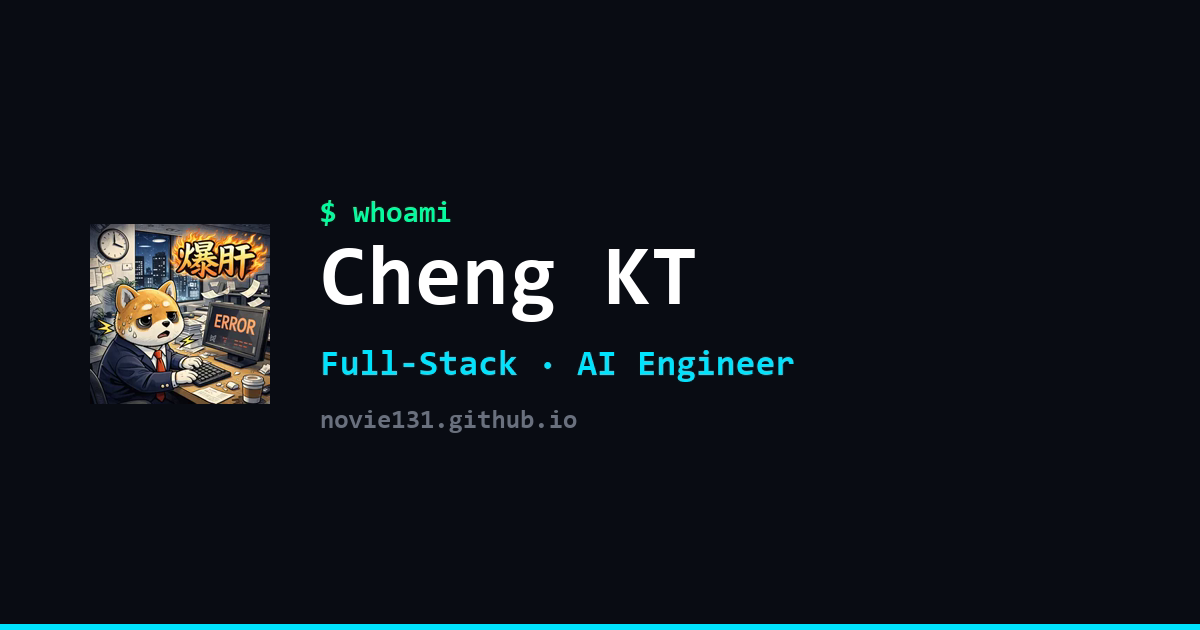
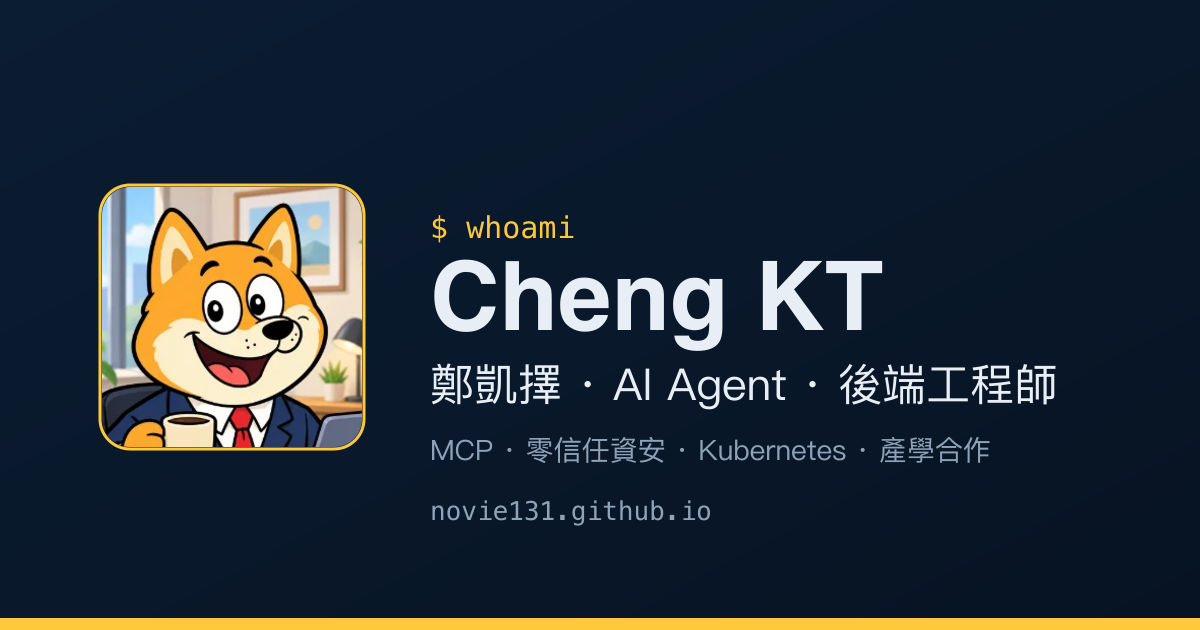
feat: 作品集改用履歷卡片風格；T-Cross 附證明圖；重製 og.png；SmartRouteAI 更名 Chutora 並新增 SortOCR

diff --git a/src/pages/Portfolio.jsx b/src/pages/Portfolio.jsx
@@ -1,6 +1,8 @@
 import { useSearchParams } from 'react-router-dom'
 import { useLang } from '../context/LangContext'
 import projects from '../content/projects.json'
+import Zoomable from '../components/Zoomable'
+import '../styles/Resume.css'
 import '../styles/Portfolio.css'
 
 const { items, filters } = projects
@@ -24,82 +26,62 @@ export default function Portfolio() {
         <p className="page-desc">{t('port.desc')}</p>
       </header>
 
-      <div className="filter-bar">
-        {filters.map(key => (
-          <button
-            key={key}
-            className={`filter-btn${active === key ? ' active' : ''}`}
-            onClick={() => setActive(key)}
-          >
-            {key === 'All' ? t('port.filter.all') : key}
-          </button>
-        ))}
-        <span className="filter-count tc-dim">{visible.length} {t('port.count')}</span>
-      </div>
+      <section className="resume-section">
+        <h2 className="section-title">
+          {t('port.section')}
+          <span className="resume-count">{visible.length} {t('port.count')}</span>
+        </h2>
 
-      <div className="project-grid">
-        {visible.map(project => (
-          <div
-            key={project.id}
-            className={`project-card${project.featured ? ' featured' : ''}`}
-          >
-            {project.image && (
-              <img
-                className="card-image"
-                src={project.image}
-                alt={project.title}
-                width="800"
-                height="450"
-                loading="lazy"
-                decoding="async"
-              />
-            )}
+        <nav className="resume-toc filter-bar" aria-label={t('port.title')}>
+          {filters.map(key => (
+            <button
+              key={key}
+              className={`toc-chip${active === key ? ' active' : ''}`}
+              aria-pressed={active === key}
+              onClick={() => setActive(key)}
+            >
+              {key === 'All' ? t('port.filter.all') : key}
+            </button>
+          ))}
+        </nav>
 
-            <div className="card-content">
-              <p className="card-category">{project.category}</p>
-              <h3 className="card-title">{project.title}</h3>
-              <p className="card-desc">{project.description[lang]}</p>
+        <div className="exp-list project-list">
+          {visible.map(project => (
+            <article
+              key={project.id}
+              className={`exp-card project-card${project.featured ? ' featured' : ''}`}
+            >
+              <Zoomable src={project.image} alt={project.title} closeLabel={t('zoom.close')} />
+              <p className="exp-org">{project.category}</p>
+              <h3 className="exp-title">{project.title}</h3>
+              <p className="exp-summary">{project.description[lang]}</p>
 
-              <ul className="project-features">
-                {project.features[lang].map((f, i) => (
-                  <li key={i}>{f}</li>
-                ))}
+              <ul className="exp-highlights">
+                {project.features[lang].map((f, i) => <li key={i}>{f}</li>)}
               </ul>
 
-              <div className="tags project-tech">
-                {project.tech.map(tech => (
-                  <span key={tech} className="tag">{tech}</span>
-                ))}
+              <div className="tags rs-tags">
+                {project.tech.map(tech => <span key={tech} className="tag">{tech}</span>)}
               </div>
 
               {(project.repoLink || project.demoLink) && (
-              <div className="card-footer">
-                {project.repoLink && (
-                  <a
-                    href={project.repoLink}
-                    className="project-link secondary"
-                    target="_blank"
-                    rel="noreferrer"
-                  >
-                    {t('port.github')}
-                  </a>
-                )}
-                {project.demoLink && (
-                  <a
-                    href={project.demoLink}
-                    className="project-link primary"
-                    target="_blank"
-                    rel="noreferrer"
-                  >
-                    {t('port.demo')}
-                  </a>
-                )}
-              </div>
+                <div className="project-links">
+                  {project.repoLink && (
+                    <a href={project.repoLink} className="project-link secondary" target="_blank" rel="noreferrer">
+                      {t('port.github')}
+                    </a>
+                  )}
+                  {project.demoLink && (
+                    <a href={project.demoLink} className="project-link primary" target="_blank" rel="noreferrer">
+                      {t('port.demo')}
+                    </a>
+                  )}
+                </div>
               )}
-            </div>
-          </div>
-        ))}
-      </div>
+            </article>
+          ))}
+        </div>
+      </section>
     </div>
   )
 }

diff --git a/src/styles/Portfolio.css b/src/styles/Portfolio.css
@@ -1,162 +1,30 @@
-/* ── Filter Bar ──────────────────────────────────── */
-.filter-bar {
-  display: flex;
-  align-items: center;
-  gap: 0.4rem;
-  flex-wrap: wrap;
-  margin-bottom: 1.75rem;
-}
+/* 作品集沿用履歷頁的卡片（exp-card）與導覽晶片（toc-chip），這裡只補作品集特有的部分 */
 
-.filter-btn {
-  font-family: var(--font-mono);
-  font-size: 0.75rem;
-  font-weight: 600;
-  padding: 0.35rem 0.85rem;
-  border-radius: 9999px;
-  border: 1px solid var(--border);
+.filter-bar { margin: 0 0 1.25rem; }
+
+button.toc-chip {
+  font-family: inherit;
   background: transparent;
-  color: var(--muted);
   cursor: pointer;
-  transition: color 0.2s, border-color 0.2s, background 0.2s;
 }
 
-.filter-btn:hover {
+.toc-chip.active {
   color: var(--text);
-  border-color: var(--border-hi);
-}
-
-.filter-btn.active {
   background: var(--surface-2);
   border-color: var(--border-hi);
-  color: var(--text);
 }
 
-.filter-count {
-  font-family: var(--font-mono);
-  font-size: 0.72rem;
-  margin-left: auto;
-}
-
-/* ── Grid ────────────────────────────────────────── */
-/* 手機單欄；≥860px 兩欄等高，featured 那張橫跨整列 */
-.project-grid {
-  display: grid;
-  grid-template-columns: 1fr;
-  gap: 1rem;
-}
-
-@media (min-width: 860px) {
-  .project-grid {
-    grid-template-columns: repeat(2, 1fr);
-    gap: 1.25rem;
-  }
-
+/* 精選那張橫跨整列（≥1100px 才有兩欄） */
+@media (min-width: 1100px) {
   .project-card.featured { grid-column: 1 / -1; }
-
-  .project-card.featured .card-content {
-    display: grid;
-    grid-template-columns: 1fr 1fr;
-    grid-template-rows: auto auto 1fr auto auto;
-    column-gap: 2.5rem;
-  }
-
-  .project-card.featured .card-category,
-  .project-card.featured .card-title,
-  .project-card.featured .card-footer { grid-column: 1 / -1; }
-
-  .project-card.featured .project-features { grid-column: 2; grid-row: 3 / 5; }
-  .project-card.featured .card-desc        { grid-column: 1; grid-row: 3; }
-  .project-card.featured .project-tech     { grid-column: 1; grid-row: 4; }
 }
 
-/* ── Card ────────────────────────────────────────── */
-.project-card {
-  background: var(--surface);
-  border: 1px solid var(--border);
-  border-radius: var(--radius);
-  display: flex;
-  flex-direction: column;
-  overflow: hidden;
-  transition: border-color 0.2s;
-}
-
-.project-card:hover { border-color: var(--border-hi); }
-
-.card-content {
-  padding: 1.35rem 1.25rem 1.25rem;
-  display: flex;
-  flex-direction: column;
-  flex: 1;
-}
-
-@media (min-width: 600px) {
-  .card-content { padding: 1.6rem 1.6rem 1.4rem; }
-}
-
-.card-category {
-  font-family: var(--font-mono);
-  font-size: 0.7rem;
-  font-weight: 600;
-  color: var(--dim);
-  letter-spacing: 0.08em;
-  text-transform: uppercase;
-  margin: 0 0 0.5rem;
-}
-
-.card-title {
-  font-family: var(--font-display);
-  font-size: 1.2rem;
-  font-weight: 700;
-  color: var(--text);
-  margin: 0 0 0.75rem;
-  letter-spacing: -0.01em;
-}
-
-.card-desc {
-  color: var(--text-2);
-  font-size: 0.92rem;
-  line-height: 1.7;
-  margin: 0 0 1rem;
-}
-
-.project-features {
-  list-style: none;
-  padding: 0;
-  margin: 0 0 1.25rem;
-  display: flex;
-  flex-direction: column;
-  gap: 0.4rem;
-  flex-grow: 1;
-}
-
-.project-features li {
-  font-size: 0.86rem;
-  color: var(--muted);
-  padding-left: 1rem;
-  position: relative;
-  line-height: 1.6;
-}
-
-.project-features li::before {
-  content: '';
-  position: absolute;
-  left: 0;
-  top: 0.68em;
-  width: 4px;
-  height: 4px;
-  border-radius: 50%;
-  background: var(--dim);
-}
-
-.project-tech { margin-bottom: 1.25rem; }
-
-/* Footer */
-.card-footer {
-  margin-top: auto;
-  padding-top: 1rem;
-  border-top: 1px solid var(--border);
+.project-links {
   display: flex;
   gap: 1.25rem;
+  margin-top: 1rem;
+  padding-top: 0.9rem;
+  border-top: 1px solid var(--border);
 }
 
 .project-link {
@@ -169,16 +37,5 @@
 
 .project-link.primary { color: var(--primary); }
 .project-link.primary:hover { color: #ffd966; }
-
 .project-link.secondary { color: var(--text-2); }
 .project-link.secondary:hover { color: var(--text); }
-
-/* 專案封面圖（image 欄位有值時才渲染） */
-.card-image {
-  display: block;
-  width: 100%;
-  height: auto;
-  aspect-ratio: 16 / 9;
-  object-fit: cover;
-  border-bottom: 1px solid var(--border);
-}

diff --git a/src/styles/Resume.css b/src/styles/Resume.css
@@ -511,3 +511,13 @@ a.write-card:hover .write-title { color: var(--primary); }
   .write-card { padding: 1.15rem 1.1rem; }
   .course-row { align-items: flex-start; }
 }
+
+/* 社群列附縮圖：第三欄放小縮圖；手機時縮圖靠右、與內文同一列 */
+.comm-row:has(.zoom-mini) { grid-template-columns: minmax(0, 1fr) auto; }
+.comm-row:has(.zoom-mini) .comm-period { grid-column: 1 / -1; }
+.comm-row:has(.zoom-mini) .zoom-mini { align-self: start; margin-top: 0.15rem; }
+
+@media (min-width: 720px) {
+  .comm-row:has(.zoom-mini) { grid-template-columns: 10.5rem minmax(0, 1fr) auto; }
+  .comm-row:has(.zoom-mini) .comm-period { grid-column: auto; }
+}

diff --git a/src/i18n/translations.js b/src/i18n/translations.js
@@ -40,6 +40,7 @@ const translations = {
 
     // Portfolio
     'port.title':          '精選作品',
+    'port.section':        '專案',
     'port.filter.all':     '全部',
     'port.count':          '個作品',
     'port.github':         'GitHub ↗',
@@ -161,6 +162,7 @@ const translations = {
 
     // Portfolio
     'port.title':          'Selected Projects',
+    'port.section':        'Projects',
     'port.filter.all':     'All',
     'port.count':          'projects',
     'port.github':         'GitHub ↗',

diff --git a/src/styles/App.css b/src/styles/App.css
@@ -315,7 +315,7 @@ body::before {
    不支援的瀏覽器直接略過、內容照常顯示，不會有「JS 沒跑就空白」的風險 */
 @media (prefers-reduced-motion: no-preference) {
   @supports (animation-timeline: view()) {
-    .exp-card, .pub-card, .cert-card, .comp-card, .write-card,
+    .exp-card, .pub-card, .cert-card, .comp-card, .write-card, .project-card,
     .edu-row, .comm-row, .course-row, .event-row {
       animation: revealUp linear both;
       animation-timeline: view();

diff --git a/src/pages/Resume.jsx b/src/pages/Resume.jsx
@@ -181,6 +181,7 @@ export default function Resume() {
                 <p className="comm-desc">{pick(item.desc, lang)}</p>
                 <Tags list={item.tech} />
               </div>
+              <Zoomable src={item.image} alt={pick(item.title, lang)} closeLabel={t('zoom.close')} className="zoom-mini" />
             </div>
           ))}
         </div>
